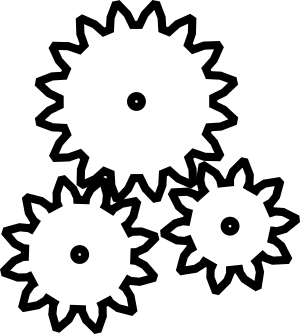
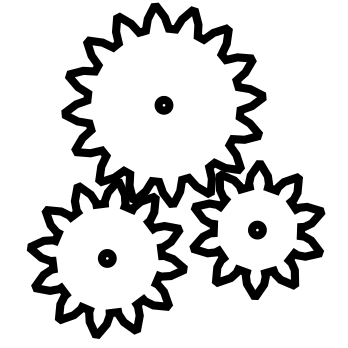
Add more assets and prototype a gear animation
- Adds multiple gear icons for animating
- Cycles through rotated gear images to animate

diff --git a/Rubik/RubikGui/main_gui.py b/Rubik/RubikGui/main_gui.py
@@ -1,7 +1,10 @@
 from tkinter import *
+import os, time, threading
 
-class Gui ():
+
+class Gui():
     master_ = None
+    gear_icons = []
 
     def __init__(self, master):
         super().__init__()
@@ -9,20 +12,42 @@ class Gui ():
         frame = Frame(master)
         frame.pack()
 
+        self.gear_icons.append(PhotoImage(file=os.path.join("Rubik", "Assets", "gear-1.png")))
+        self.gear_icons.append(PhotoImage(file=os.path.join("Rubik", "Assets", "gear-2.png")))
+        self.gear_icons.append(PhotoImage(file=os.path.join("Rubik", "Assets", "gear-3.png")))
+        self.gear_icons.append(PhotoImage(file=os.path.join("Rubik", "Assets", "gear-4.png")))
+        self.gear_icons.append(PhotoImage(file=os.path.join("Rubik", "Assets", "gear-5.png")))
+
         self.button = Button(
             frame, text="QUIT", fg="red", command=frame.quit
-            )
+        )
         self.button.pack(side=LEFT)
+
+        gear1 = PhotoImage(file=os.path.join("Rubik", "Assets", "gear-1.png"))
+        self.button.config(image=self.gear_icons[0])
+        gear2 = PhotoImage(file=os.path.join("Rubik", "Assets", "gear-2.png"))
+        self.button.curr_gear = 0
 
         self.hi_there = Button(frame, text="Hello", command=self.say_hi)
         self.hi_there.pack(side=LEFT)
+        image = PhotoImage(file=os.path.join("Rubik", "Assets", "rubik-time.png"))
+        self.hi_there.config(image=image)
+        self.hi_there.image = image
 
-    def say_hi(self):
+        self.change_gear()
+
+    def change_gear(self):
+        self.button.curr_gear = (self.button.curr_gear + 1) % len(self.gear_icons)
+        self.button.config(image=self.gear_icons[self.button.curr_gear])
+        threading.Timer(0.1, self.change_gear).start()
+
+    @staticmethod
+    def say_hi():
         print("hi there, everyone!")
 
-# root = Tk()
-#
-# app = Gui(root)
-#
-# root.mainloop()
-# root.destroy()
+        # root = Tk()
+        #
+        # app = Gui(root)
+        #
+        # root.mainloop()
+        # root.destroy()
